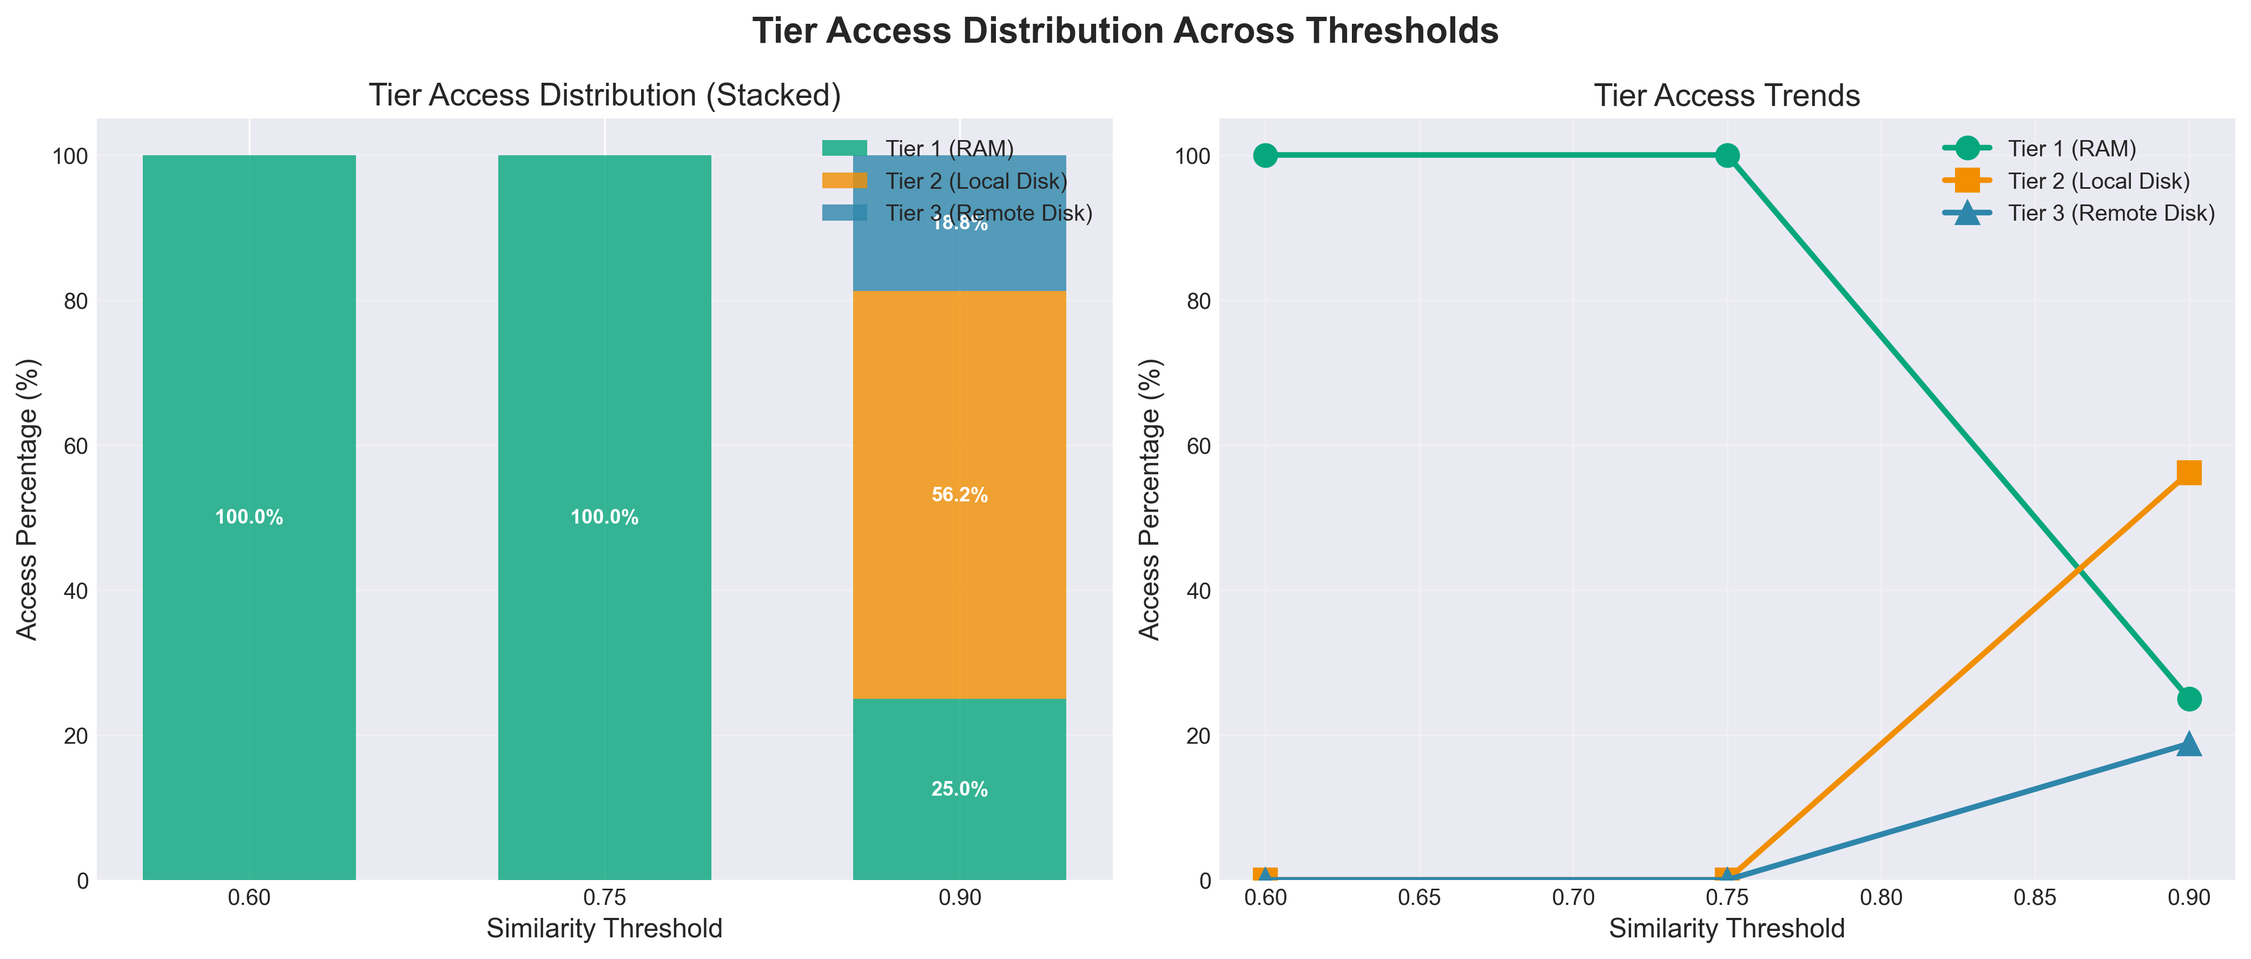
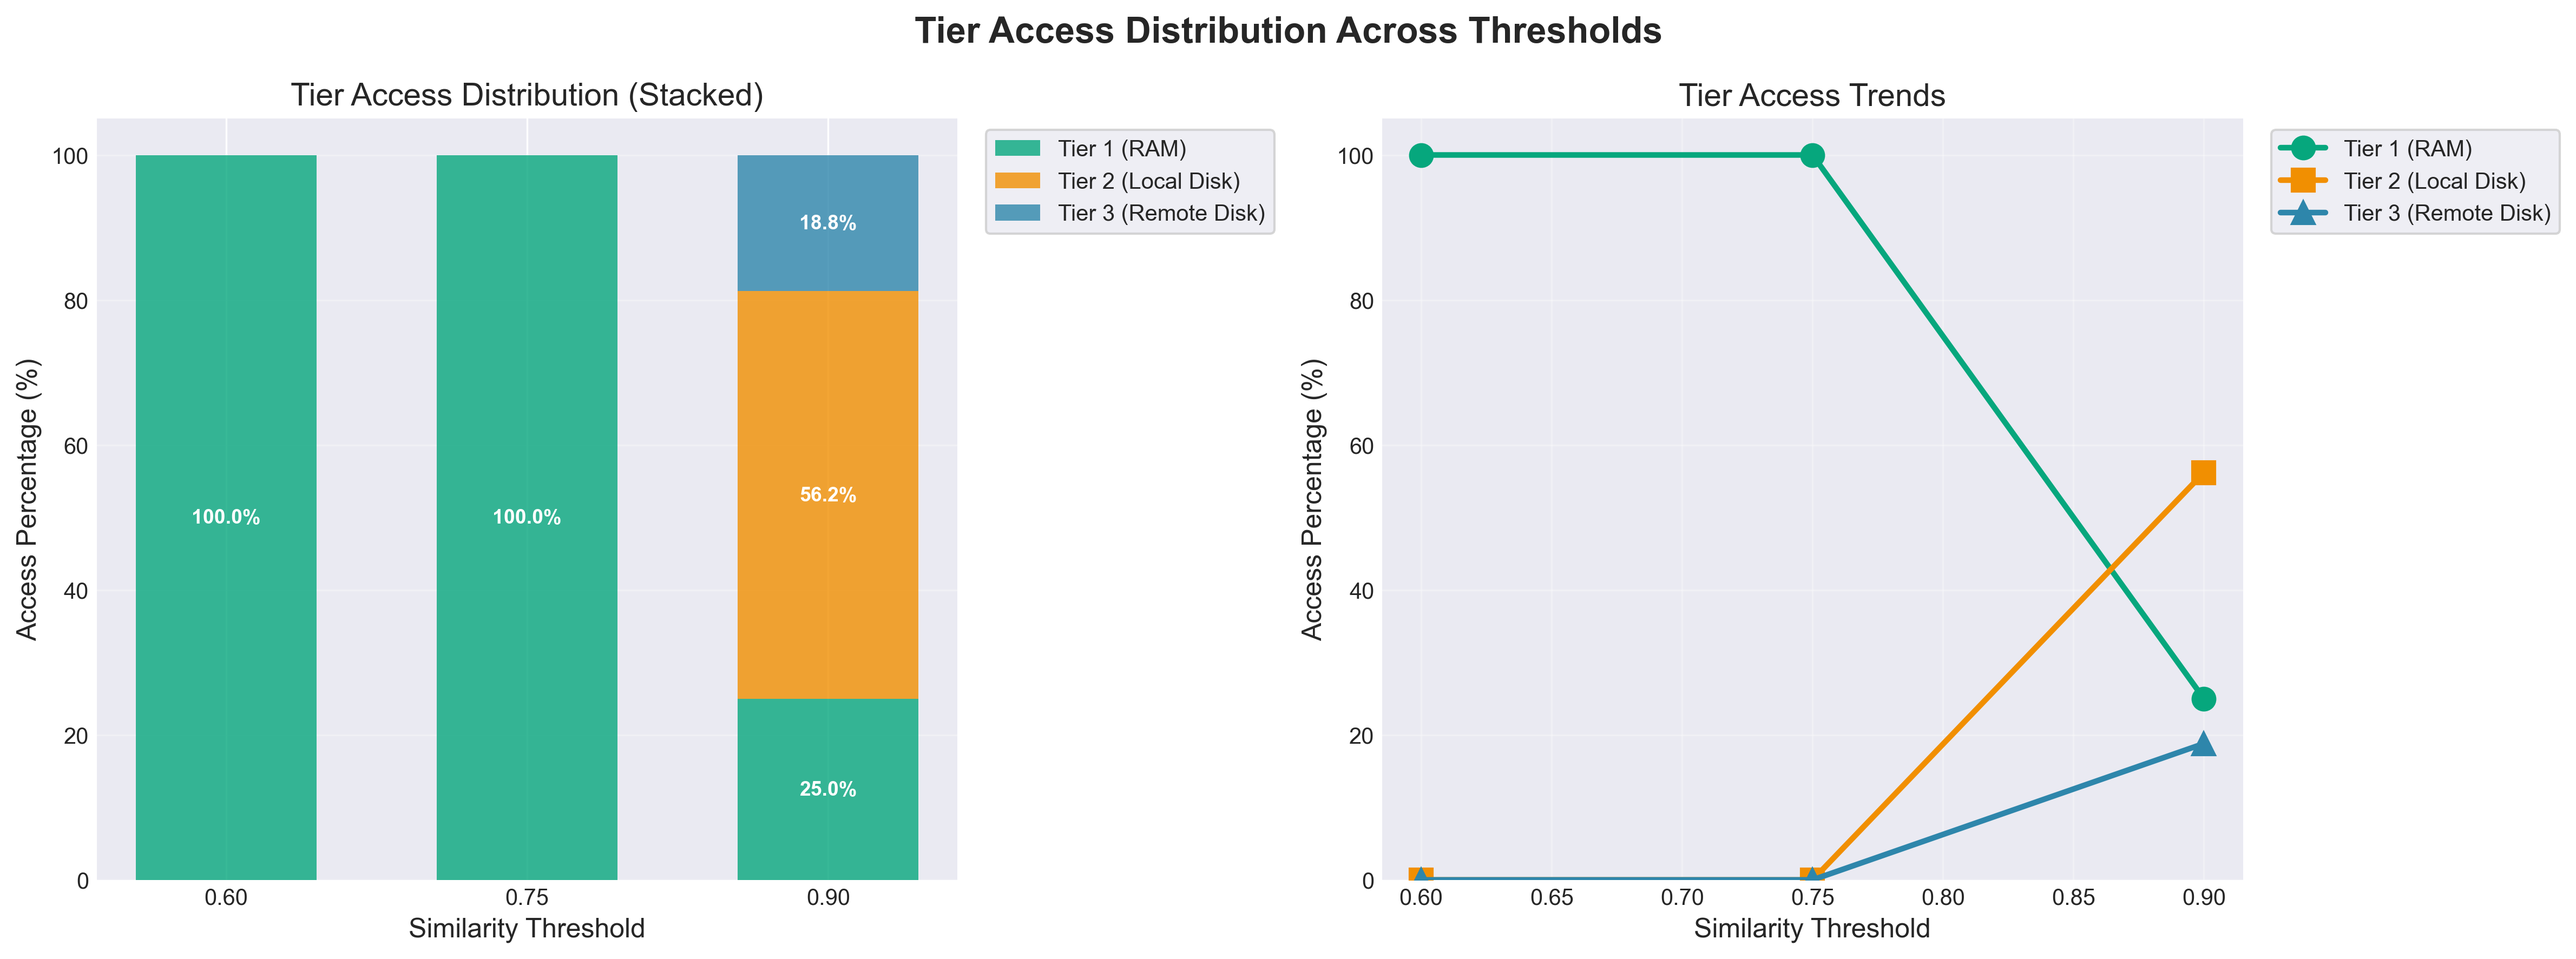
Fixed some graph overlap issues.

diff --git a/python/visualize_results.py b/python/visualize_results.py
@@ -291,7 +291,7 @@ def plot_tier_access_distribution(metrics, output_dir):
         print("Warning: No metrics available for tier access distribution")
         return
     
-    fig, axes = plt.subplots(1, 2, figsize=(14, 6))
+    fig, axes = plt.subplots(1, 2, figsize=(16, 6))
     fig.suptitle('Tier Access Distribution Across Thresholds', fontsize=16, fontweight='bold')
     
     thresholds = sorted(metrics.keys())
@@ -317,7 +317,8 @@ def plot_tier_access_distribution(metrics, output_dir):
     ax1.set_title('Tier Access Distribution (Stacked)')
     ax1.set_xticks(x)
     ax1.set_xticklabels([f'{th:.2f}' for th in thresholds])
-    ax1.legend(loc='upper right')
+    # Move legend outside the plot area to avoid overlap
+    ax1.legend(loc='upper left', bbox_to_anchor=(1.02, 1), frameon=True)
     ax1.set_ylim(0, 105)
     ax1.grid(True, alpha=0.3, axis='y')
     
@@ -344,7 +345,8 @@ def plot_tier_access_distribution(metrics, output_dir):
     ax2.set_xlabel('Similarity Threshold')
     ax2.set_ylabel('Access Percentage (%)')
     ax2.set_title('Tier Access Trends')
-    ax2.legend()
+    # Move legend outside the plot area to avoid overlap
+    ax2.legend(loc='upper left', bbox_to_anchor=(1.02, 1), frameon=True)
     ax2.grid(True, alpha=0.3)
     ax2.set_ylim(0, 105)
     
